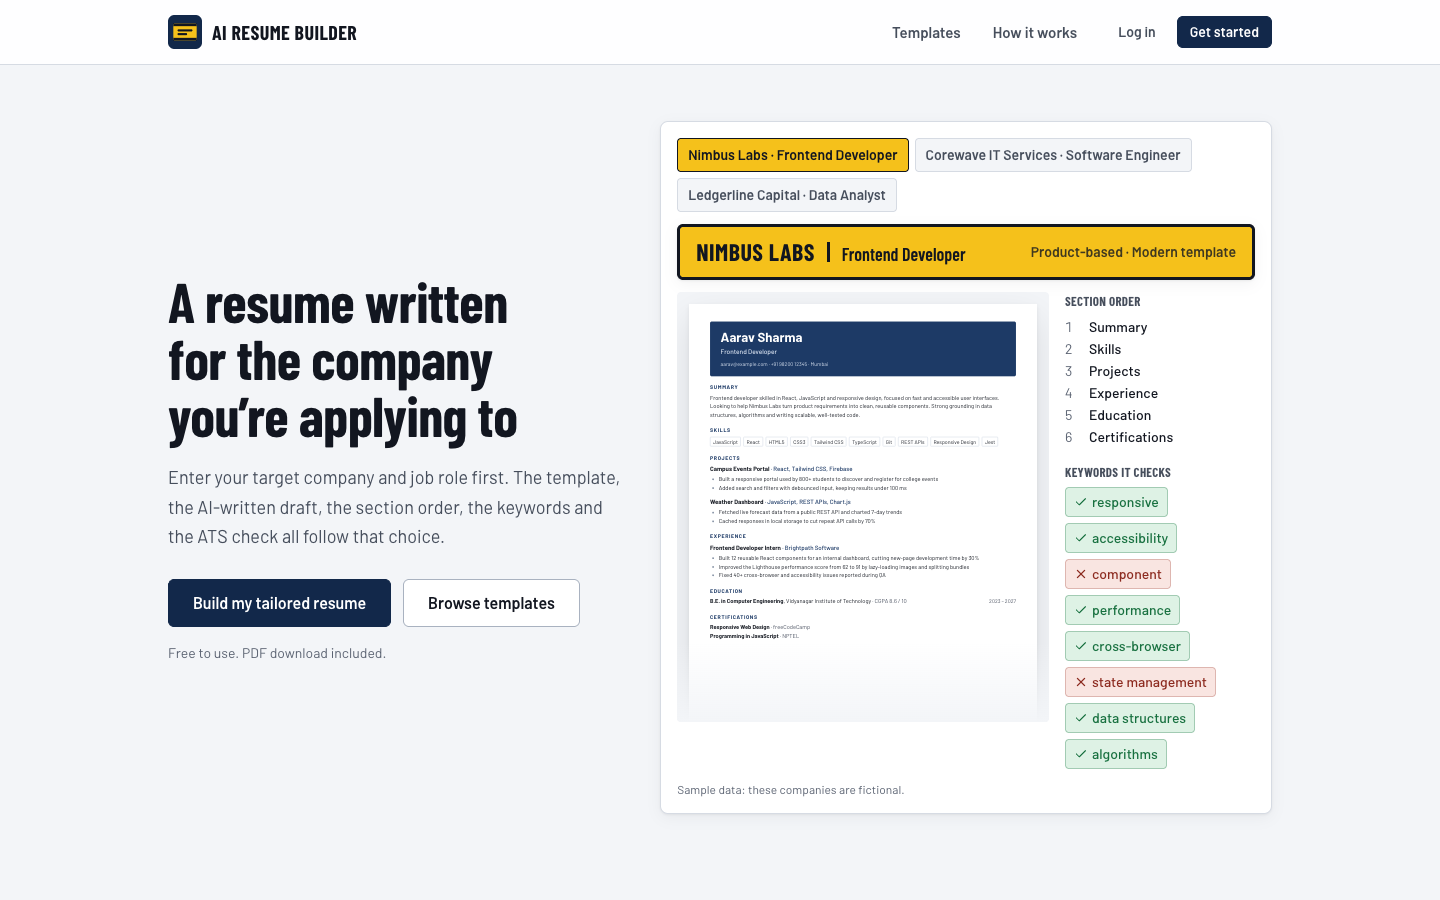
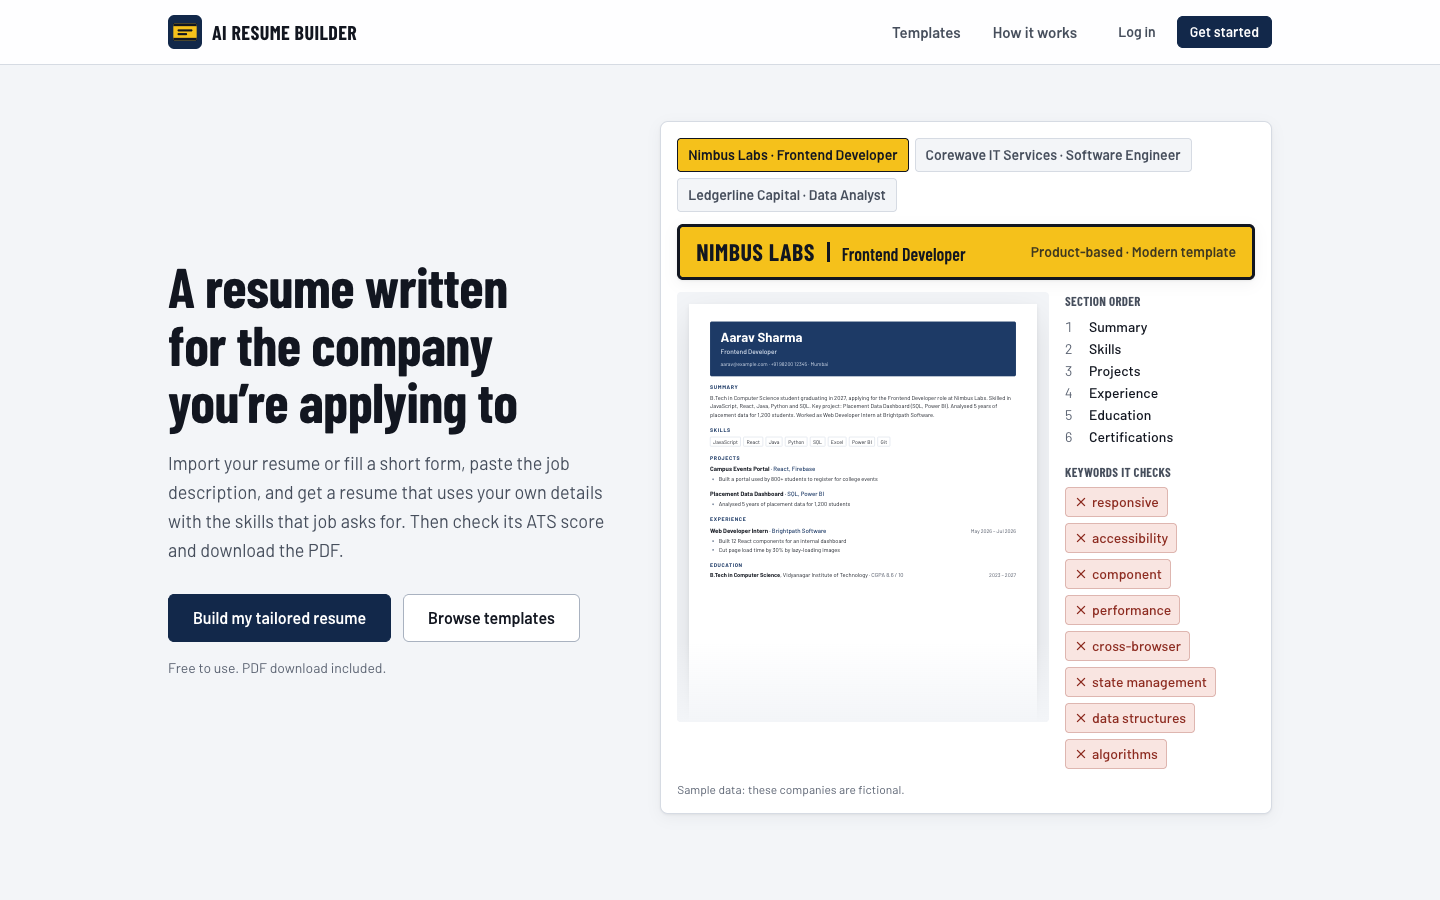
docs: update README and screenshots for the new features

diff --git a/README.md b/README.md
@@ -1,16 +1,16 @@
 # AI Resume Builder
 
-A MERN stack web app that builds **ATS-friendly resumes tailored to a specific target company and job role**.
-The user enters the company and role first; the recommended template, the AI-written draft, the section order,
-the keyword suggestions and the ATS check all follow that choice.
+A MERN stack web app that helps students and freshers make **ATS-friendly resumes for a specific job**.
+You import your resume (or fill a short form), paste the job description, and the site builds a resume from
+**your own details** with the skills that job asks for. Then you check its ATS score and download a PDF.
 
-> **Phase 1 (Review 1): frontend + GitHub repository.** The React frontend is complete and runs on mock data
-> through a mock service layer. The Node.js/Express/MongoDB backend and real AI integration come in later phases.
-> Every place that will call the backend is marked `// TODO (Phase 2): replace mock with real API call to the Express backend`.
+> **Current phase: frontend.** The React frontend is complete and works fully in the browser. The Node.js +
+> Express + MongoDB backend and the real AI model come in later phases (see [Roadmap](#roadmap)).
 
 ![Landing page](docs/screenshots/01-landing.png)
 
 ---
+
 
 ## Problem statement
 
@@ -32,68 +32,91 @@ on specific companies, industries, and job roles while improving ATS compatibili
 | O5 | Reduce the time and effort required to create high-quality resumes while improving shortlisting chances through ATS-compatible, role-focused resumes. |
 | O6 | Provide a secure and user-friendly platform for storing, managing, and updating multiple resumes. |
 
-## Features (Phase 1)
+## Features
 
-- **Target first:** the create wizard starts with the target company and job role (autocomplete or custom entry) and shows what that company looks for.
-- **Company and role based customisation:** 5 sample companies and 6 roles; each company sets the recommended template, section order, emphasis (projects or experience) and keywords.
-- **AI resume generation (mock):** "Generate with AI" writes a tailored first draft; "Improve with AI" rewrites one section, with Undo.
-- **Resume editor:** section forms with add/remove entries and section reordering, a **live A4 preview**, a keyword panel for the target, template switching that keeps the content, "Change target", and Edit/Preview tabs on phones.
-- **PDF download:** prints a text-based A4 PDF (no images of text), so applicant tracking systems can read it.
-- **ATS checker:** score out of 100 with a circular progress ring, a formula breakdown, matched and missing keywords, section checks and prioritised suggestions with "Fix in editor" links.
-- **Templates gallery:** Classic, Modern and Minimal single-column ATS-safe templates, filterable by industry, company type and role.
-- **User dashboard:** resume cards with mini previews, target, template, last edited date and ATS stamp; Edit, Duplicate, Download, Delete (with confirmation); search and filters; empty state.
-- **Authentication (mock):** signup and login with validation, password show/hide, protected routes, profile editing and password change.
-- **Admin dashboard:** totals, resumes per company, latest resumes, and add/edit/delete for templates, companies and roles. Changes show up immediately in the wizard, editor and ATS checker.
-- **Responsive** from 360 px phones to desktop, keyboard accessible, labelled form fields.
+| Feature | What it does |
+|---|---|
+| **Import a resume** | Upload a PDF or Word (.docx) file, or paste the text. Name, email, phone, LinkedIn, summary, skills, experience, projects, education and certifications are filled in. You check and correct them before editing. Scanned PDFs show a clear message. |
+| **Three ways to start** | "Create resume" offers: Import my resume, Fill a form, or Start blank. |
+| **Paste a job description** | The site finds the skills the job asks for (about 130 skills, with short forms like JS = JavaScript, k8s = Kubernetes) and shows them as chips. |
+| **Create form** | Your own skills, projects and internships. "Generate" uses only what you typed: it turns your sentences into bullet points and writes a 40–80 word summary. |
+| **Resume editor** | Edit every section with a live A4 preview, a live ATS score, and the job's skills (green = in your resume, grey = missing; click one to add it). |
+| **ATS checker** | Score out of 100 with matched and missing skills, fixes ranked by importance with "Fix in editor" links, and a "How this score works" box. |
+| **Tailor for a new job** | Make a copy of any resume for a new job description. Matching skills move to the top, the summary is rewritten, and you tick only the missing skills you really have. The original stays unchanged. |
+| **Templates and PDF** | Classic, Modern and Minimal templates. Downloads a text-based PDF that ATS systems can read. |
+| **Accounts and dashboard** | Sign up, log in, profile, and a dashboard of all your resumes (edit, duplicate, download, delete, search). |
+| **Admin** | Manage templates, sample companies and roles; see totals; reset the demo data. |
+| **Form validation** | Mobile numbers (+91, 10 digits), CGPA out of 10 or percentage with %, years, dates, links and passwords, with errors shown as you fill the form. |
+
+## What is real and what is demo mode
+
+| Part | Status now |
+|---|---|
+| Import from PDF / Word / text | **Real.** Text is read in the browser with `pdfjs-dist` and `mammoth`, then split into sections with simple rules. |
+| Skills found in a job description | **Real.** Whole-word matching against the skills list (`client/src/data/skillsList.js`). |
+| ATS score | **Real calculation**, explained on the results page. It is an estimate like Jobscan; real ATS systems differ. |
+| Editor, preview, PDF, validation, tailoring | **Real.** |
+| "Generate", "Improve with AI", tailored summary | **Demo mode.** Written rules, not an AI model: they clean up and rearrange only what you typed and never add new facts. Every AI button has a "Demo mode" badge. |
+| Accounts and saved resumes | **Demo mode.** Saved in your browser (`localStorage`), so they stay on one device. |
+
+### How the ATS score works
+
+| Part | Points |
+|---|---|
+| Skills from the job description found in the resume | 50 |
+| Job title mentioned in the summary or experience | 10 |
+| Sections present: contact, summary, skills, projects or experience, education | 20 (4 each) |
+| Bullet quality: bullets with numbers (8), bullets starting with an action verb (8), summary of 40–80 words (4) | 20 |
+
+Without a job description, only sections and bullet quality are checked and the result is shown out of 100.
+The logic is in one function, `calculateAtsScore()` in `client/src/utils/atsScore.js`.
+
+## How the AI part will be connected (Phase 3)
+
+All AI work goes through four functions in `client/src/services/aiService.js`:
+
+| Function | What it does |
+|---|---|
+| `generateBullets(text, jobDescription)` | Turns the user's sentences into bullet points |
+| `writeSummary(profile, jobDescription)` | Writes a 40–80 word summary from the user's own details |
+| `improveSection(section, content, jobDescription)` | Rephrases one section without adding facts |
+| `tailorSummary(resume, jobDescription)` | Rewrites the summary for a new job |
+
+Pages never contain AI logic; they only call these functions. In Phase 3, only the inside of each function
+changes: it will call our Express backend (for example `POST /api/ai/summary`), and the backend will call a real
+AI model. The API key stays on the server, because a key in frontend code can be seen by anyone.
 
 ## Tech stack
 
-| Layer | Phase 1 (now) | Later phases |
+| Layer | Now | Later phases |
 |---|---|---|
 | Frontend | React 19 + Vite, plain JavaScript, React Router, Tailwind CSS, Context API | same |
-| PDF | react-to-print (browser print, keeps a real text layer) | same |
-| Icons and fonts | lucide-react, self-hosted Barlow and Barlow Condensed | same |
-| Data | Mock data in `client/src/data`, saved in `localStorage` | MongoDB |
-| API | Mock services in `client/src/services` (Promises with a short delay) | Node.js + Express REST API |
-| AI | Template-based mock in `aiService.js` | AI model called from the backend |
+| File reading | pdfjs-dist (PDF), mammoth (Word .docx) | same |
+| PDF download | react-to-print (browser print, keeps real text) | same |
+| Data | Browser `localStorage` through the services in `client/src/services` | MongoDB |
+| API | Service functions that return Promises | Node.js + Express REST API |
+| AI | Rule-based demo in `aiService.js` | AI model called from the backend |
 
 ## Folder structure
 
 ```
 ai-resume-builder/
-├── client/                    React frontend (this phase)
-│   ├── index.html
-│   ├── vite.config.js
+├── client/                     React frontend
+│   ├── vercel.json             lets page links work on Vercel
 │   └── src/
-│       ├── main.jsx           entry point
-│       ├── App.jsx            router + context providers
-│       ├── index.css          design tokens and global styles
-│       ├── routes/            AppRoutes, ProtectedRoute, AdminRoute, ScrollToTop
-│       ├── context/           AuthContext, ResumeContext, CatalogContext, ToastContext
-│       ├── services/          authService, resumeService, aiService, atsService,
-│       │                      catalogService, adminService   (mock API layer)
-│       ├── data/              companies, roles, templates, sampleResumes, users,
-│       │                      sampleJobDescriptions, sections   (sample data)
-│       ├── utils/             atsScore, keywordUtils, validation, storage, targetProfile,
-│       │                      resumeFormat, pdf, mockApi, scoreBand, listText
-│       ├── components/        shared UI (Button, Input, Navbar, Sidebar, ResumeCard,
-│       │   │                  TargetStrip, ScoreCircle, Modal, Toast, EmptyState …)
-│       │   ├── templates/     ClassicTemplate, ModernTemplate, MinimalTemplate,
-│       │   │                  TemplateRenderer, ResumePreview
-│       │   ├── editor/        section forms, KeywordPanel, EditorToolbar, RetargetDialog …
-│       │   ├── wizard/        StepTarget, StepTemplate, StepBasics, CompanyInsight …
-│       │   ├── ats/           AtsResultPanel, ScoreBreakdown, KeywordResults …
-│       │   ├── landing/       HeroDemo, FeatureIndex, RouteSteps, AtsTeaser
-│       │   └── admin/         DataTable, CompanyForm, RoleForm, TemplateForm …
-│       └── pages/             one file per page (+ pages/admin/)
-├── server/                    README only: backend comes in Phase 2
-├── docs/screenshots/          screenshots used in this README
-└── README.md
+│       ├── pages/              one file per page (Dashboard, Create, Import, Editor, ATS checker …)
+│       ├── components/         shared UI, plus editor/, wizard/, ats/, landing/, admin/, templates/
+│       ├── services/           aiService (AI functions), atsService, resumeService, authService …
+│       ├── utils/              atsScore, jobDescription, resumeImport, validation, keywordUtils …
+│       ├── data/               skillsList, sample resumes, companies, roles, templates, job descriptions
+│       └── context/            logged-in user, resumes, catalog, toasts
+├── server/                     backend (Phase 2)
+└── docs/screenshots/
 ```
 
-## Setup
+## How to run
 
-Requirements: Node.js 20 or newer and npm.
+Requirements: Node.js 20 or newer.
 
 ```bash
 git clone https://github.com/suiishiii67/ai-resume-builder.git
@@ -102,45 +125,44 @@ npm install
 npm run dev
 ```
 
-Open the address Vite prints (usually http://localhost:5173).
+Open http://localhost:5173.
 
-Other scripts (run inside `client/`):
-
-| Command | What it does |
+| Command (inside `client/`) | What it does |
 |---|---|
+| `npm run dev` | Start the app for development |
 | `npm run build` | Production build into `client/dist` |
-| `npm run preview` | Serve the production build locally |
-| `npm run lint` | Check code quality with ESLint |
+| `npm run lint` | Check the code with ESLint |
 
-## Demo credentials
+### Deploy on Vercel
 
-| Account | Email | Password | Notes |
-|---|---|---|---|
-| User | `demo@resumeai.dev` | `demo1234` | Has 3 sample resumes for 3 different targets |
-| Admin | `admin@resumeai.dev` | `admin1234` | Opens the admin dashboard |
+Import the GitHub repo in Vercel, set **Root Directory** to `client`, and deploy. Vercel detects Vite
+automatically; `client/vercel.json` makes links like `/dashboard` work when the page is refreshed.
 
-The login page also has "Fill demo user" and "Fill admin" buttons. All data is stored in the browser.
-**Admin overview → Reset demo data** restores the original sample data.
+## Demo accounts
 
-All company names (Nimbus Labs, Corewave IT Services, Sprintly, Meridian Advisory, Ledgerline Capital) are
-**fictional sample data**.
+| Account | Email | Password |
+|---|---|---|
+| User | `demo@resumeai.dev` | `demo1234` |
+| Admin | `admin@resumeai.dev` | `admin1234` |
+
+The demo user has a complete B.Tech CSE fresher resume and a copy tailored for a Frontend Developer job.
+**Admin → Reset demo data** brings the sample data back. Company names in the sample data are made up.
 
 ## Screenshots
 
 | | |
 |---|---|
-| ![Dashboard](docs/screenshots/02-dashboard.png) Dashboard | ![Wizard step 1](docs/screenshots/03-wizard-target.png) Wizard: target company + role |
-| ![Wizard step 2](docs/screenshots/04-wizard-templates.png) Wizard: recommended templates | ![Editor](docs/screenshots/05-editor.png) Editor with live preview |
-| ![ATS checker](docs/screenshots/06-ats-checker.png) ATS checker | ![Admin](docs/screenshots/07-admin-companies.png) Admin: manage companies |
+| ![Dashboard](docs/screenshots/02-dashboard.png) Dashboard | ![Import](docs/screenshots/09-import.png) Import a resume |
+| ![Create](docs/screenshots/03-wizard-target.png) Paste a job description | ![Editor](docs/screenshots/05-editor.png) Editor with live score |
+| ![ATS checker](docs/screenshots/06-ats-checker.png) ATS checker | ![Tailor](docs/screenshots/10-tailor.png) Tailor for a new job |
 
-<img src="docs/screenshots/08-mobile-editor.png" alt="Editor preview tab on a phone" width="260">
+<img src="docs/screenshots/08-mobile-editor.png" alt="Editor on a phone" width="260">
 
 ## Roadmap
 
 | Phase | Scope | Status |
 |---|---|---|
-| Phase 1 | Frontend (React, all pages, mock services) + GitHub repository | **Done** |
-| Phase 2 | Backend: Node.js + Express REST API, MongoDB, real authentication (bcrypt, JWT), SRS, ER diagram, DFD, system architecture | Planned |
-| Phase 3 | AI integration for generation and improvement, server-side ATS engine | Planned |
-| Phase 4 | Testing (unit, integration, UAT, reports) and deployment | Planned |
-
+| Phase 1 | Frontend: all pages, import, job description matching, ATS score, tailoring | **Done** |
+| Phase 2 | Backend: Node.js + Express REST API, MongoDB, real login (bcrypt, JWT) | Planned |
+| Phase 3 | Real AI model behind `aiService.js`, called from the backend | Planned |
+| Phase 4 | Testing and deployment | Planned |
